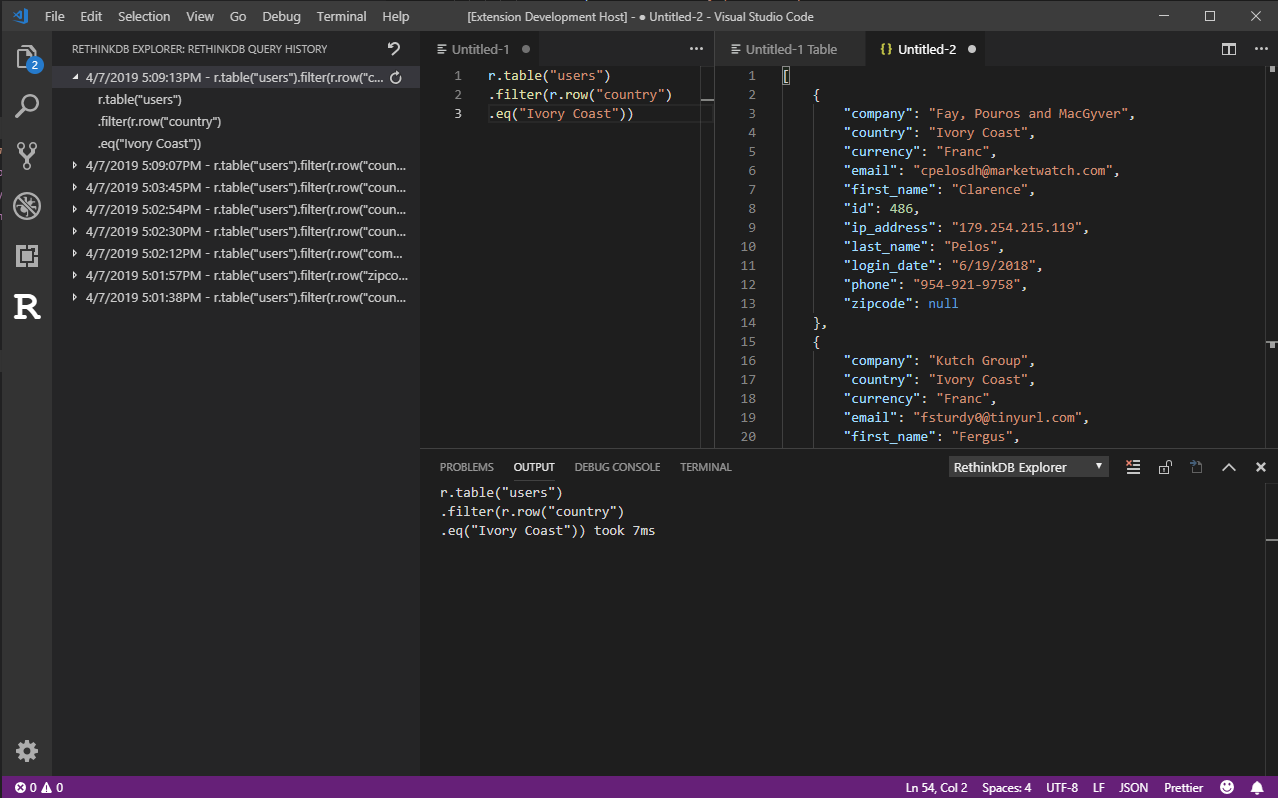
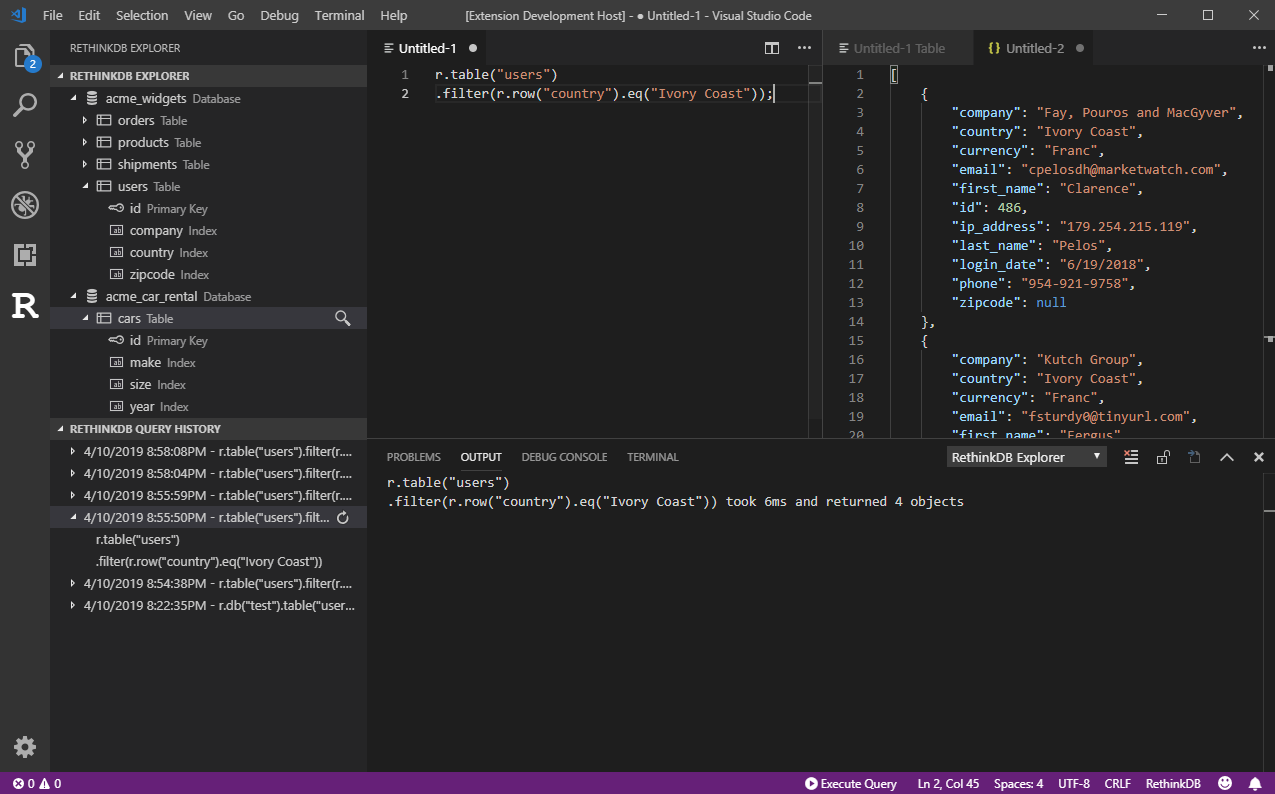
Updating screenshots and reving version

diff --git a/README.md b/README.md
@@ -28,7 +28,12 @@ This extension is configured through the following settings:
 
 Initial release
 
-## [1.0.1]
+## 1.0.1
 
 - Improved intellisense
 - Added visual database viewer
+
+## 1.0.2
+
+- Improved database viewer
+- Added more output for connection failures

diff --git a/CHANGELOG.md b/CHANGELOG.md
@@ -8,3 +8,8 @@
 
 - Improved intellisense
 - Added visual database viewer
+
+## [1.0.2]
+
+- Improved database viewer
+- Added more output for connection failures
